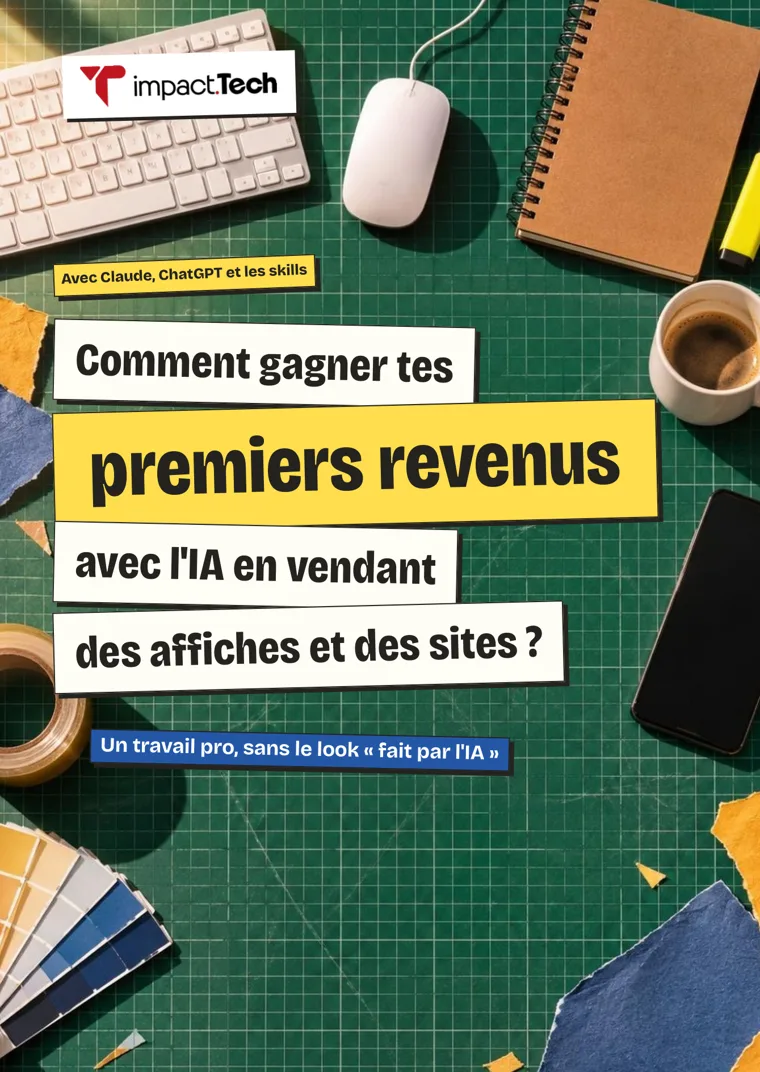
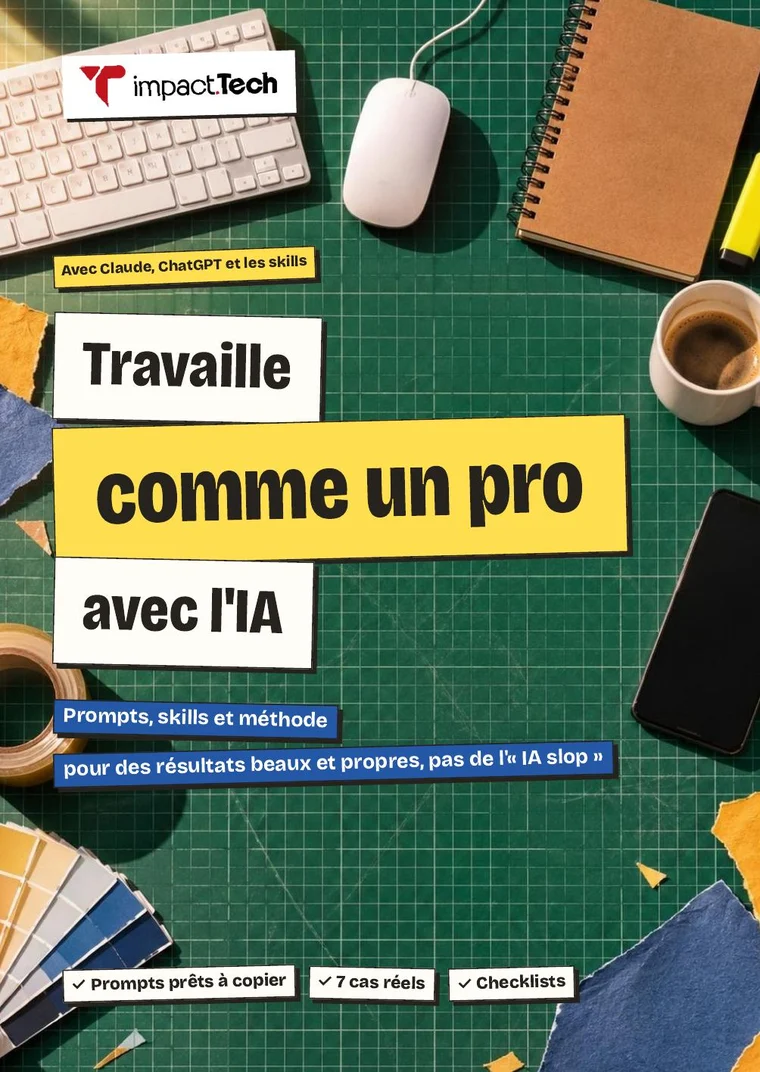
Livre : nouveau titre « Travaille comme un pro avec l'IA » (couverture, page de vente)
Claude-Session: https://claude.ai/code/session_014KVrHL1NfRS54iRMpJWKCF

diff --git a/public/livre/index.html b/public/livre/index.html
@@ -6,9 +6,9 @@
   <meta name="theme-color" content="#0e493a">
   <link rel="icon" type="image/png" href="impact-tech-icon.png">
   <meta name="description" content="Livre PDF de 132 pages : la méthode pour livrer des affiches et des sites que les clients paient, les prix réels d’une agence de Douala et comment trouver tes premiers clients. 4 500 F.">
-  <title>Comment gagner tes premiers revenus avec l’IA | Impact Tech</title>
-  <meta property="og:title" content="Comment gagner tes premiers revenus avec l’IA en vendant des affiches et des sites ?">
-  <meta property="og:description" content="Le livre PDF de 132 pages pour livrer un travail pro, sans le look « fait par l’IA », fixer tes prix et trouver tes premiers clients. 4 500 F.">
+  <title>Travaille comme un pro avec l’IA | Impact Tech</title>
+  <meta property="og:title" content="Travaille comme un pro avec l’IA : prompts, skills et méthode">
+  <meta property="og:description" content="Le livre PDF de 132 pages pour apprendre à prompter Claude et ChatGPT comme un pro et créer des affiches et des sites beaux et propres, pas de l’« IA slop ». 4 500 F.">
   <meta property="og:image" content="https://impacttech237.com/livre/img/livre-3d.webp">
   <meta property="og:type" content="product">
   <link rel="preconnect" href="https://fonts.googleapis.com">
@@ -80,13 +80,13 @@
 <main id="haut">
 <section class="hero"><div class="wrap hero-grid"><div>
 <div class="eyebrow">Livre PDF · 132 pages · téléchargement immédiat</div>
-<h1>Comment gagner tes premiers <span class="highlight">revenus</span> avec l’IA ?</h1>
-<p class="sub-h1">En vendant des affiches et des sites, sans le look « fait par l’IA ».</p>
-<p class="hero-copy">N’importe qui peut demander une affiche à l’IA. Peu de gens savent en tirer un travail qu’un client accepte de payer. Ce livre te donne la méthode pas à pas, les <b>vrais prix d’une agence de Douala</b> et le plan pour décrocher tes premiers clients.</p>
+<h1>Travaille comme un <span class="highlight">pro</span> avec l’IA</h1>
+<p class="sub-h1">Prompts, skills et méthode pour des résultats beaux et propres, pas de l’« IA slop ».</p>
+<p class="hero-copy">Tout le monde a ChatGPT. Peu de gens savent en tirer de beaux flyers et de beaux sites qui ne font pas « IA ». Ce livre t’apprend à <b>prompter Claude et ChatGPT comme un pro</b>, à utiliser les skills et les bonnes inspirations, et à vérifier chaque création. Avec 7 cas réels pas à pas, et en bonus les prix et le plan pour vendre ton travail.</p>
 <div class="price-line"><b>4 500 F</b><span>une seule fois · PDF à télécharger après paiement</span></div>
 <div class="hero-actions"><div class="buy-widget" id="chariow-widget" data-product-id="prd_k518lp13" data-store-domain="livkjgqy.mychariow.com" data-style="tap" data-border-style="rounded" data-cta-width="xl" data-background-color="#FFFFFF" data-cta-animation="shine" data-locale="fr" data-primary-color="#ffcc00"></div><span class="micro">PDF à télécharger tout de suite après le paiement.</span></div>
-<div class="proof-row"><span class="chip">ChatGPT + Claude</span><span class="chip">Affiches et sites</span><span class="chip">Prix, devis et clients</span></div>
-</div><div class="hero-art"><div class="cover-frame"><img class="cover" src="img/couverture.webp" width="760" height="1072" alt="Couverture du livre Comment gagner tes premiers revenus avec l’IA en vendant des affiches et des sites"><span class="pdf-badge" aria-hidden="true"><b>PDF</b>132 pages</span></div></div></div></section>
+<div class="proof-row"><span class="chip">ChatGPT + Claude</span><span class="chip">Prompts prêts à copier</span><span class="chip">Affiches et sites</span><span class="chip">Prix, devis et clients</span></div>
+</div><div class="hero-art"><div class="cover-frame"><img class="cover" src="img/couverture.webp" width="760" height="1072" alt="Couverture du livre Travaille comme un pro avec l’IA"><span class="pdf-badge" aria-hidden="true"><b>PDF</b>132 pages</span></div></div></div></section>
 
 <section class="section"><div class="wrap problem-grid"><div class="paper-note"><h3>Ce que tu vis peut-être déjà</h3><p>Tu écris « fais-moi une affiche pour mon client ». Trente secondes plus tard, elle est là. Et elle ressemble à toutes les autres : mêmes dégradés, mêmes icônes, mêmes polices.</p><p>Ton client la regarde et dit : <b>« Je peux faire ça moi-même. »</b></p><p>Alors tu baisses ton prix. Ou il disparaît.</p></div><div class="problem-copy"><div class="eyebrow">Le vrai problème</div><h2>L’outil est le même pour tout le monde. Ce qui change, c’est la méthode.</h2><p>Une agence facture <strong>20 000 F une affiche</strong> et <strong>150 000 F un site</strong> avec les mêmes IA que toi. La différence : elle pose les bonnes questions au client, elle montre des images et des exemples à l’IA, et elle vérifie chaque détail avant de livrer.</p><p>Ce livre te montre exactement ça, avec des cas complets, du premier essai raté jusqu’au résultat livrable.</p></div></div></section>
 
@@ -111,7 +111,7 @@
 <a href="img/page-devis.webp" target="_blank" rel="noreferrer"><img src="img/page-devis.webp" alt="Page avec le devis WhatsApp"><span>Le devis WhatsApp</span></a>
 </div></div></section>
 
-<section class="section" id="contenu"><div class="wrap book-grid"><div class="book-visual"><img src="img/couverture.webp" alt="Couverture du guide Impact Tech, Comment gagner tes premiers revenus avec l’IA"></div><div class="book-copy"><div class="section-kicker" style="color:var(--yellow)">Ce que tu trouves dans le livre</div><h2>Tout ce qu’il faut entre « j’ai une idée » et « j’ai été payé ».</h2><div class="contents"><div class="content-item"><b>Repérer le look « IA »</b><span>Les signes à voir en gros plan, section par section, pour ne plus jamais livrer un travail banal.</span></div><div class="content-item"><b>Faire un site</b><span>Un site pour un restaurant, un commerce ou une association, de la demande vague au résultat pro.</span></div><div class="content-item"><b>Faire une affiche</b><span>Les bonnes infos, les bons formats, et l’usage de modèles professionnels.</span></div><div class="content-item"><b>Guider ChatGPT et Claude</b><span>Les consignes à donner, les images à joindre et les règles de design à installer.</span></div><div class="content-item"><b>Fixer ton prix</b><span>Les prix réels d’Impact Tech, ceux d’un débutant, et quand les augmenter.</span></div><div class="content-item"><b>Trouver tes clients</b><span>Où chercher, un devis WhatsApp prêt à adapter et un carnet pour les faire revenir.</span></div></div><table class="compare"><thead><tr><th>Ce que facture une agence</th><th>Prix</th></tr></thead><tbody><tr><td>Une affiche</td><td>20 000 F</td></tr><tr><td>Un site vitrine</td><td>150 000 F</td></tr><tr><td>La méthode derrière, dans ce livre</td><td>4 500 F</td></tr></tbody></table><div class="center-cta" style="text-align:left;margin-top:0"><div class="buy-widget" id="chariow-widget" data-product-id="prd_k518lp13" data-store-domain="livkjgqy.mychariow.com" data-style="tap" data-border-style="rounded" data-cta-width="xl" data-background-color="#FFFFFF" data-cta-animation="shine" data-locale="fr" data-primary-color="#ffcc00"></div></div></div></div></section>
+<section class="section" id="contenu"><div class="wrap book-grid"><div class="book-visual"><img src="img/couverture.webp" alt="Couverture du guide Impact Tech, Travaille comme un pro avec l’IA"></div><div class="book-copy"><div class="section-kicker" style="color:var(--yellow)">Ce que tu trouves dans le livre</div><h2>Tout ce qu’il faut entre « j’ai une idée » et « j’ai été payé ».</h2><div class="contents"><div class="content-item"><b>Repérer le look « IA »</b><span>Les signes à voir en gros plan, section par section, pour ne plus jamais livrer un travail banal.</span></div><div class="content-item"><b>Faire un site</b><span>Un site pour un restaurant, un commerce ou une association, de la demande vague au résultat pro.</span></div><div class="content-item"><b>Faire une affiche</b><span>Les bonnes infos, les bons formats, et l’usage de modèles professionnels.</span></div><div class="content-item"><b>Guider ChatGPT et Claude</b><span>Les consignes à donner, les images à joindre et les règles de design à installer.</span></div><div class="content-item"><b>Fixer ton prix</b><span>Les prix réels d’Impact Tech, ceux d’un débutant, et quand les augmenter.</span></div><div class="content-item"><b>Trouver tes clients</b><span>Où chercher, un devis WhatsApp prêt à adapter et un carnet pour les faire revenir.</span></div></div><table class="compare"><thead><tr><th>Ce que facture une agence</th><th>Prix</th></tr></thead><tbody><tr><td>Une affiche</td><td>20 000 F</td></tr><tr><td>Un site vitrine</td><td>150 000 F</td></tr><tr><td>La méthode derrière, dans ce livre</td><td>4 500 F</td></tr></tbody></table><div class="center-cta" style="text-align:left;margin-top:0"><div class="buy-widget" id="chariow-widget" data-product-id="prd_k518lp13" data-store-domain="livkjgqy.mychariow.com" data-style="tap" data-border-style="rounded" data-cta-width="xl" data-background-color="#FFFFFF" data-cta-animation="shine" data-locale="fr" data-primary-color="#ffcc00"></div></div></div></div></section>
 
 <section class="section light"><div class="wrap sample"><div><div class="section-kicker">Le calcul honnête</div><h2>Tes premiers revenus, ce sont plusieurs petits travaux bien faits.</h2><p>Pas un gros client, mais cinq ou six personnes qui ont payé, qui sont contentes et qui ont ton numéro. Le livre te montre comment les trouver : l’église, l’association, le commerce du quartier, un parent qui lance sa marque.</p><ul class="list"><li><b>Pose les bonnes questions</b> avant de toucher à l’IA.</li><li><b>Montre des exemples</b> à l’IA au lieu de la laisser deviner.</li><li><b>Vérifie</b> chaque détail avant d’envoyer.</li><li><b>Garde chaque réalisation</b> : c’est ton portfolio.</li></ul><div class="reality"><b>Un revenu qui se construit</b><p>Plusieurs petits travaux, des prix de débutant, un portfolio qui grandit. Le livre te donne le calcul, les prix et le plan, mais aucun revenu n’est garanti : les clients, c’est toi qui vas les chercher.</p><div class="buy-widget" id="chariow-widget" data-product-id="prd_k518lp13" data-store-domain="livkjgqy.mychariow.com" data-style="tap" data-border-style="rounded" data-cta-width="xl" data-background-color="#FFFFFF" data-cta-animation="shine" data-locale="fr" data-primary-color="#ffcc00"></div></div></div><a class="annexe-shot" href="img/brief-client.webp" target="_blank" rel="noreferrer"><img class="sample-img" src="img/brief-client.webp" alt="Exemple de questions à poser au client, dans le livre"><span>APERÇU DU LIVRE : LES QUESTIONS À POSER AU CLIENT</span></a></div></section>
 
